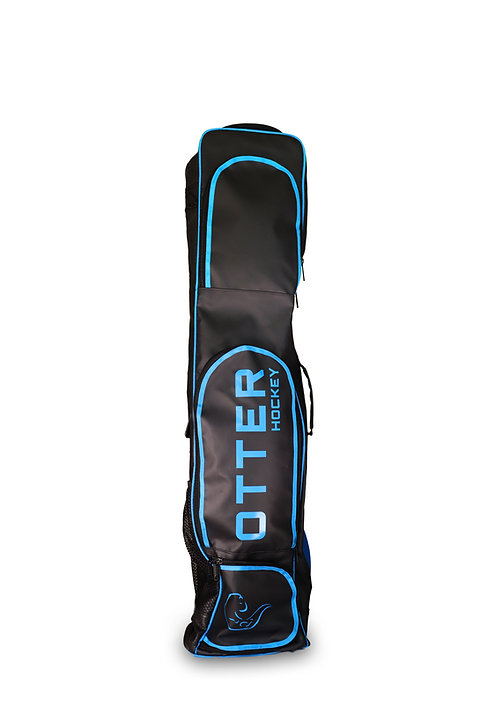
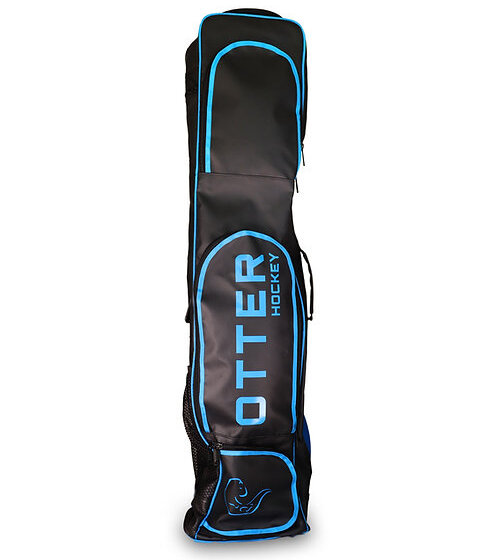
images cropped for better size

Changed region(s): [[0.3438, 0.0, 0.6562, 1.0]]

diff --git a/products/templates/products/product_detail.html b/products/templates/products/product_detail.html
@@ -13,7 +13,7 @@
     <div class="overlay"></div>
     <div class="container">
         <div class="row">
-            <div class="py-3 col-sm-12 col-md-6 col-lg-6 col-xl-6">
+            <div class="py-3 col-sm-12 col-md-4 col-lg-4 col-xl-4">
                 <div class="card h-100 border-0">
                     {% if product.image %}
                             <a href="{% url 'product_detail' product.id %}">
@@ -27,7 +27,7 @@
                     {% endif %}
                 </div>
             </div>
-            <div class="py-3 col-sm-12 col-md-6 col-lg-6 col-xl-6">
+            <div class="py-3 col-sm-12 col-md-8 col-lg-8 col-xl-8">
                 <div class="card-body pt-0 pb-0">
                     <p class=" display-4 product-name mb-3">{{ product.name }}</p>
                     <p class="lead mb-0 font-weight-bold">£{{ product.price }}</p>

diff --git a/static/css/base.css b/static/css/base.css
@@ -39,8 +39,13 @@ body {
     text-shadow: 0px 4px 4px rgba(0, 0, 0, 0.25);
 }
 
-a .logo {
-    color: #6D6D6D;
+a {
+    color: inherit;
+}
+
+a:hover {
+    color: #4D4D4D;
+    text-decoration: none;
 }
 
 /* search bar */
@@ -209,6 +214,18 @@ a .social-media-icons {
     font-family: 'Bebas Neue', sans-serif;
     letter-spacing: 2.5px;
 }
+
+/* .product-image-container {
+    width: 100%;
+    height: 250px;
+    border: 5px dashed #f7a239;
+    background-color: darkslategrey;
+}
+
+.product-image {
+    width: 100%;
+    height: 100%;
+} */
 
 /* -------------------------------- Media Queries */
 

diff --git a/products/templates/products/products.html b/products/templates/products/products.html
@@ -37,7 +37,7 @@
                 </div>
                 <div class="py-3 col-sm-6 col-md-6 col-lg-3 col-xl-3">
                     <div class="card-body pt-0 pb-0">
-                        <p class=" h2 product-name mb-3">{{ product.name }}</p>
+                        <a href="{% url 'product_detail' product.id %}" class=" h2 product-name mb-3">{{ product.name }}</a>
                     </div>
                     <div class="card-footer bg-white pt-0 border-0 text-left">
                         <div class="row">
